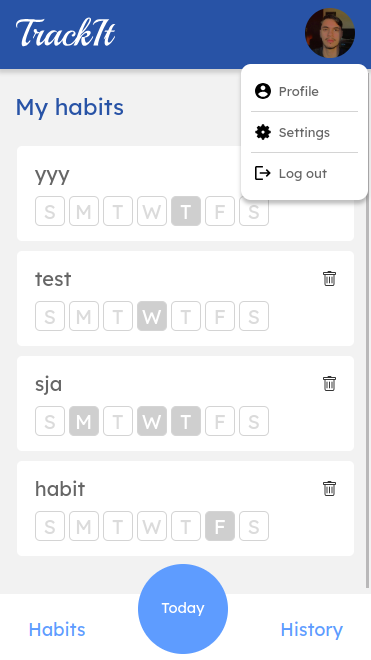
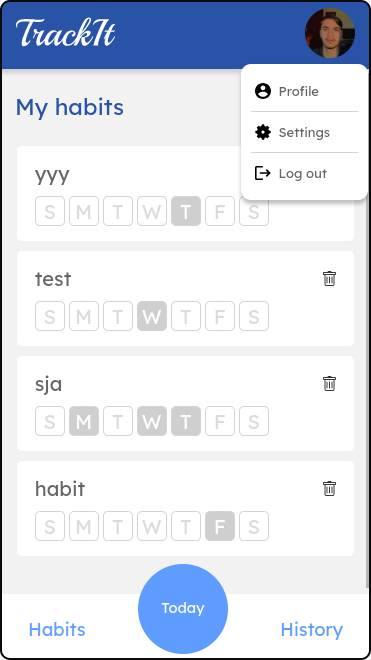
change readme images

Changed region(s): [[0.9488, 0.0, 1.0, 1.0], [0.0, 0.0, 0.0296, 1.0]]

diff --git a/README.md b/README.md
@@ -1,55 +1,55 @@
 # English version 🇱🇷 - [(Go to Brazilian version 🇧🇷)](https://github.com/GuiCintra27/Track-it/blob/main/readme-portuguese.md)
 
-<img src="./public/preview/track-it.png" width="100%" style="border-radius: 5px; margin-bottom: 2rem;"/> 
+<img src="./public/preview/track-it.png" width="100%" style="border-radius: 5px; margin-bottom: 2rem;"/>
 
 An mobile app to create and track habits!
 
 ### Sign In / Sign Up
 
 <div style="display: flex; justify-content: space-between;">
-  <img src="./public/preview/log-in.png" width="45%" style="border: 2px solid #0b0b0b; border-radius: 5px; margin-bottom: 1rem;"/> 
-  <img src="./public/preview/sign-up.png" width="45%" style="border: 2px solid #0b0b0b; border-radius: 5px; margin-bottom: 1rem;"/>
+  <img src="./public/preview/log-in.png" width="45%" style="margin-bottom: 1rem;"/> 
+  <img src="./public/preview/sign-up.png" width="45%" style="margin-bottom: 1rem;"/>
 </div>
 
 ### Home
 
 <div style="display: flex; justify-content: space-between; flex-wrap: wrap;">
-  <img src="./public/preview/home.png" width="45%" style="border: 2px solid #0b0b0b; border-radius: 5px; margin-bottom: 1rem;"/> 
-  <img src="./public/preview/create-new-habit.png" width="45%" style="border: 2px solid #0b0b0b; border-radius: 5px; margin-bottom: 1rem;"/> 
-  <img src="./public/preview/delete-habit.png" width="45%" style="border: 2px solid #0b0b0b; border-radius: 5px; margin-bottom: 1rem;"/>
+  <img src="./public/preview/home.png" width="45%" style="margin-bottom: 1rem;"/> 
+  <img src="./public/preview/create-new-habit.png" width="45%" style="margin-bottom: 1rem;"/> 
+  <img src="./public/preview/delete-habit.png" width="45%" style="margin-bottom: 1rem;"/>
 </div>
 
 ### Today Habits
 
 <div style="display: flex; justify-content: space-between; flex-wrap: wrap;">
-  <img src="./public/preview/today.png" width="45%" style="border: 2px solid #0b0b0b; border-radius: 5px; margin-bottom: 1rem;"/>
-  <img src="./public/preview/today-no-habits-completed.png" width="45%" style="border: 2px solid #0b0b0b; border-radius: 5px; margin-bottom: 1rem;"/>
+  <img src="./public/preview/today.png" width="45%" style="margin-bottom: 1rem;"/>
+  <img src="./public/preview/today-no-habits-completed.png" width="45%" style="margin-bottom: 1rem;"/>
 </div>
 
 ### History
 
 <div style="display: flex; justify-content: space-between; flex-wrap: wrap;">
-  <img src="./public/preview/history.png" width="45%" style="border: 2px solid #0b0b0b; border-radius: 5px; margin-bottom: 1rem;"/>
-  <img src="./public/preview/inspect-day-habits.png" width="45%" style="border: 2px solid #0b0b0b; border-radius: 5px; margin-bottom: 1rem;"/>
+  <img src="./public/preview/history.png" width="45%" style="margin-bottom: 1rem;"/>
+  <img src="./public/preview/inspect-day-habits.png" width="45%" style="margin-bottom: 1rem;"/>
 </div>
 
 ### User Settings
 
 <div style="display: flex; justify-content: space-between; flex-wrap: wrap;">
-  <img src="./public/preview/profile.png" width="45%" style="border: 2px solid #0b0b0b; border-radius: 5px; margin-bottom: 1rem;"/>
-  <img src="./public/preview/settings.png" width="45%" style="border: 2px solid #0b0b0b; border-radius: 5px; margin-bottom: 1rem;"/>
+  <img src="./public/preview/profile.png" width="45%" style="margin-bottom: 1rem;"/>
+  <img src="./public/preview/settings.png" width="45%" style="margin-bottom: 1rem;"/>
 </div>
 
 ### Theme and Languages
 
 <div style="display: flex; justify-content: space-between; flex-wrap: wrap;">
-  <img src="./public/preview/history.png" width="45%" style="border: 2px solid #0b0b0b; border-radius: 5px; margin-bottom: 1rem;"/>
-  <img src="./public/preview/inspect-day-habits.png" width="45%" style="border: 2px solid #0b0b0b; border-radius: 5px; margin-bottom: 1rem;"/>
+  <img src="./public/preview/history.png" width="45%" style="margin-bottom: 1rem;"/>
+  <img src="./public/preview/inspect-day-habits.png" width="45%" style="margin-bottom: 1rem;"/>
 </div>
 
 Try it out now at: https://track--it.vercel.app/
 
-[Figma of the project](https://www.figma.com/file/bSwetaNMPrtYkYj3y68hHk/TrackIt-(Copy)?type=design&node-id=0%3A1&mode=design&t=gKE3s5eyBA53pevq-1)
+[Figma of the project](<https://www.figma.com/file/bSwetaNMPrtYkYj3y68hHk/TrackIt-(Copy)?type=design&node-id=0%3A1&mode=design&t=gKE3s5eyBA53pevq-1>)
 
 ## About the project
 
